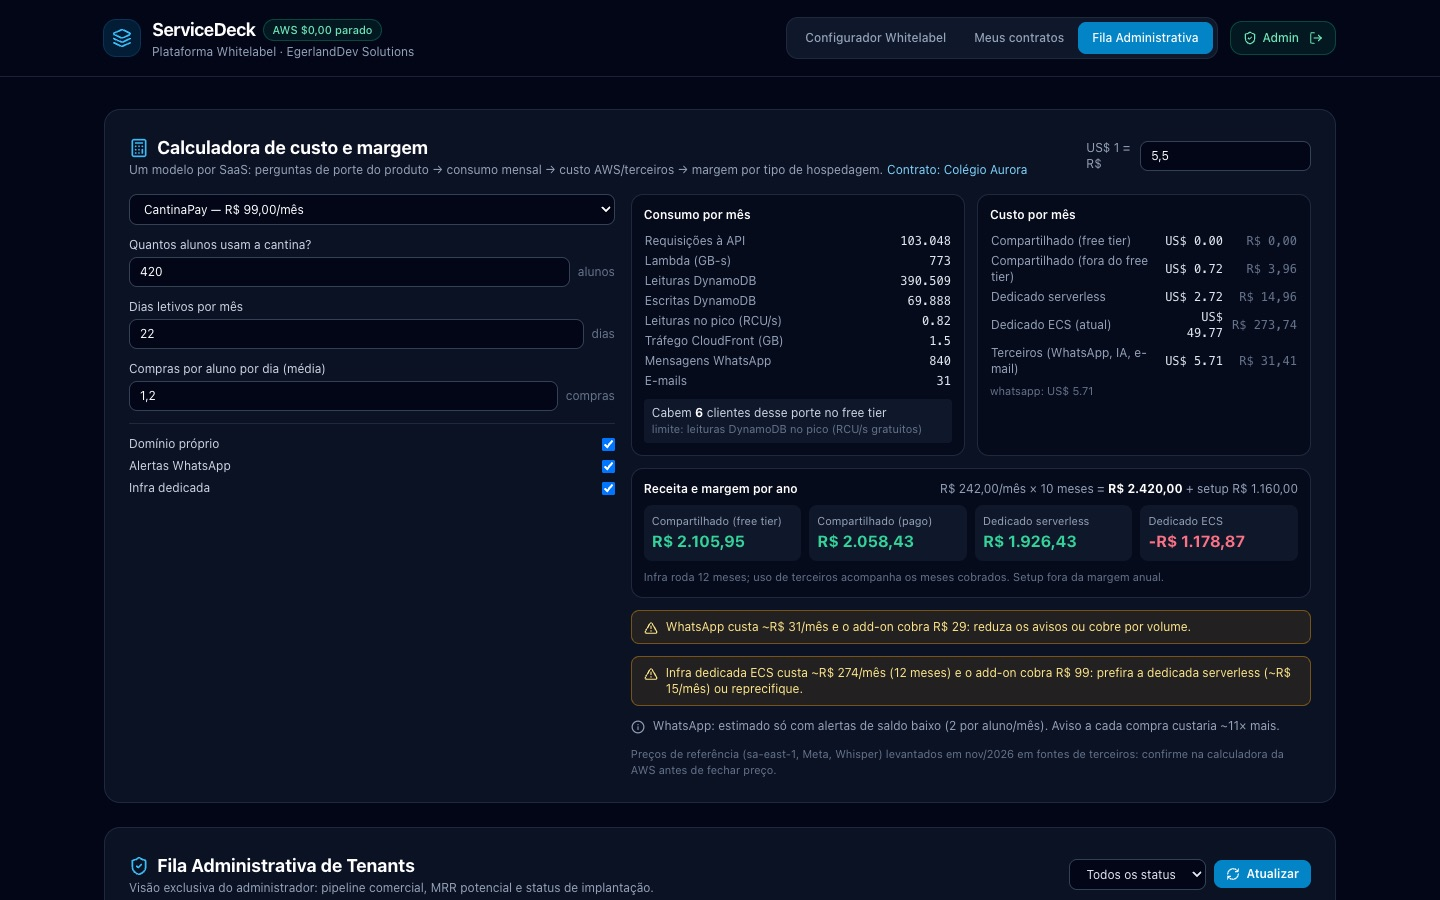
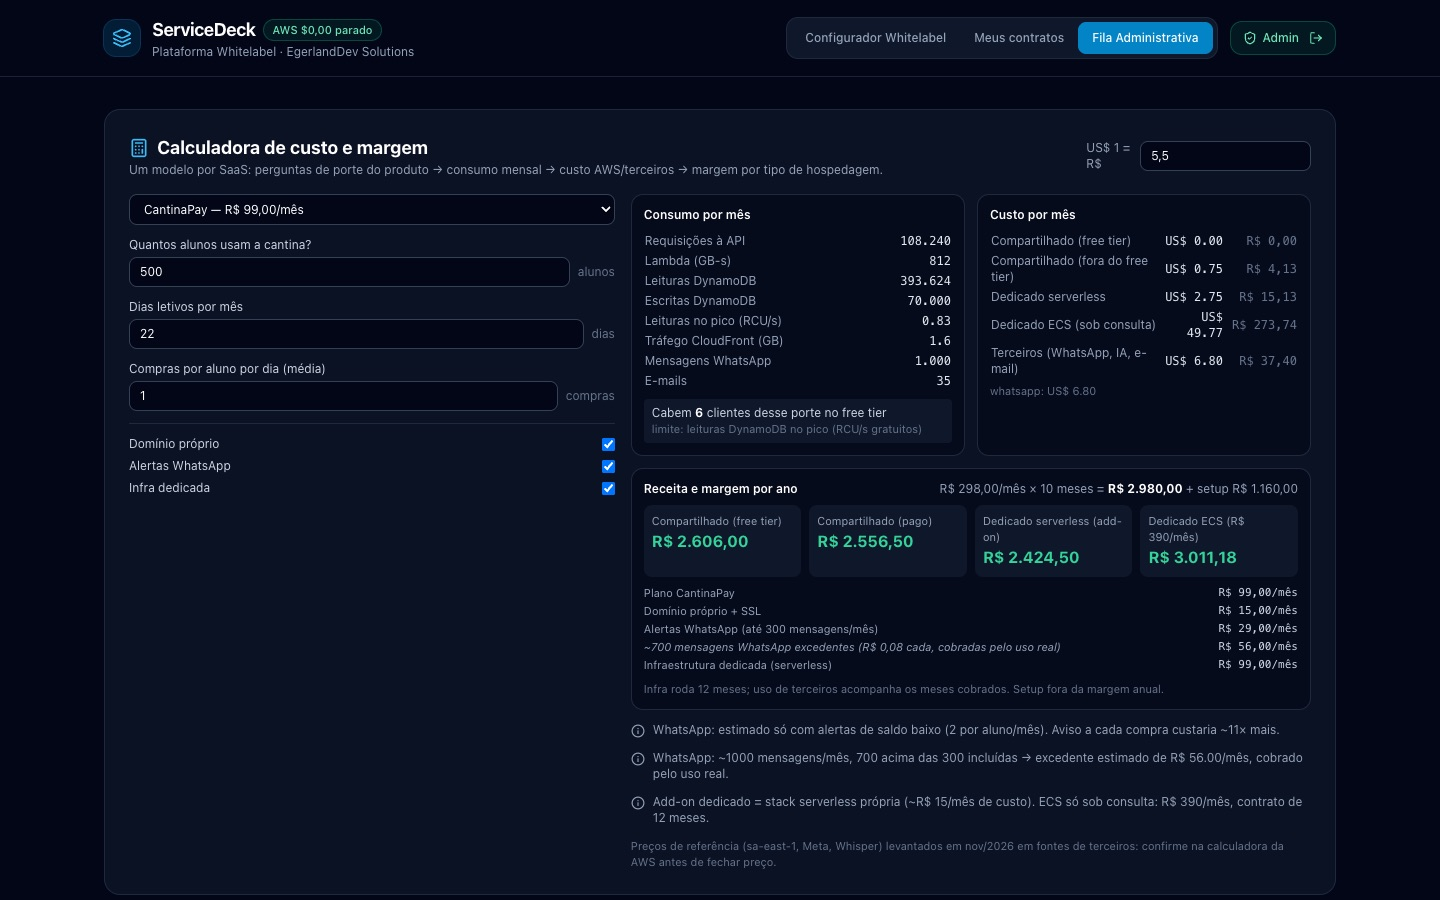
docs: ServiceDeck screenshots with the live, itemized quote
Configurator now shows the quote following the sizing answers line by
line; the cost calculator shows the price breakdown and the new
dedicated/ECS options.

diff --git a/data.js b/data.js
@@ -297,8 +297,8 @@ window.PORTFOLIO = {
       repoPrivate: true,
       tags: ['Go 1.27', 'CQRS', 'net/http', 'React 18', 'TypeScript', 'Vite', 'Tailwind', 'pdfmake', 'DynamoDB', 'AWS Lambda', 'CloudFront', 'Brevo', 'Amazon SES', 'AWS CDK (Go)', 'GitHub Actions'],
       shots: [
-        { src: 'assets/projects/sd_configurador.jpg', alt: { pt: 'Configurador com o preview real do produto (CantinaPay) na marca escolhida e perguntas de porte', en: 'Configurator with the real product preview (CantinaPay) in the chosen brand and sizing questions' } },
-        { src: 'assets/projects/sd_calculadora.jpg', alt: { pt: 'Calculadora de custo e margem por SaaS: consumo, free tier, custos por hospedagem e alertas', en: 'Per-SaaS cost & margin calculator: usage, free tier, cost per hosting option and warnings' } },
+        { src: 'assets/projects/sd_configurador.jpg', alt: { pt: 'Configurador: perguntas de porte e opcionais recalculam o orçamento na hora, com a composição do valor item a item', en: 'Configurator: sizing questions and add-ons recalculate the quote live, itemized line by line' } },
+        { src: 'assets/projects/sd_calculadora.jpg', alt: { pt: 'Calculadora de custo e margem por SaaS: consumo, free tier, custo e margem por hospedagem e composição do preço', en: 'Per-SaaS cost & margin calculator: usage, free tier, cost and margin per hosting option and price breakdown' } },
         { src: 'assets/projects/sd_admin_fila.jpg', alt: { pt: 'Fila administrativa: status, custo por contrato e script de infra dedicada (só a conta dona)', en: 'Admin queue: status, cost per contract and dedicated-infra script (owner account only)' } },
         { src: 'assets/projects/sd_meus_contratos.jpg', alt: { pt: 'Área do cliente com login: todos os contratos do mesmo e-mail', en: 'Logged-in customer area: every contract of the same e-mail' } },
       ],
